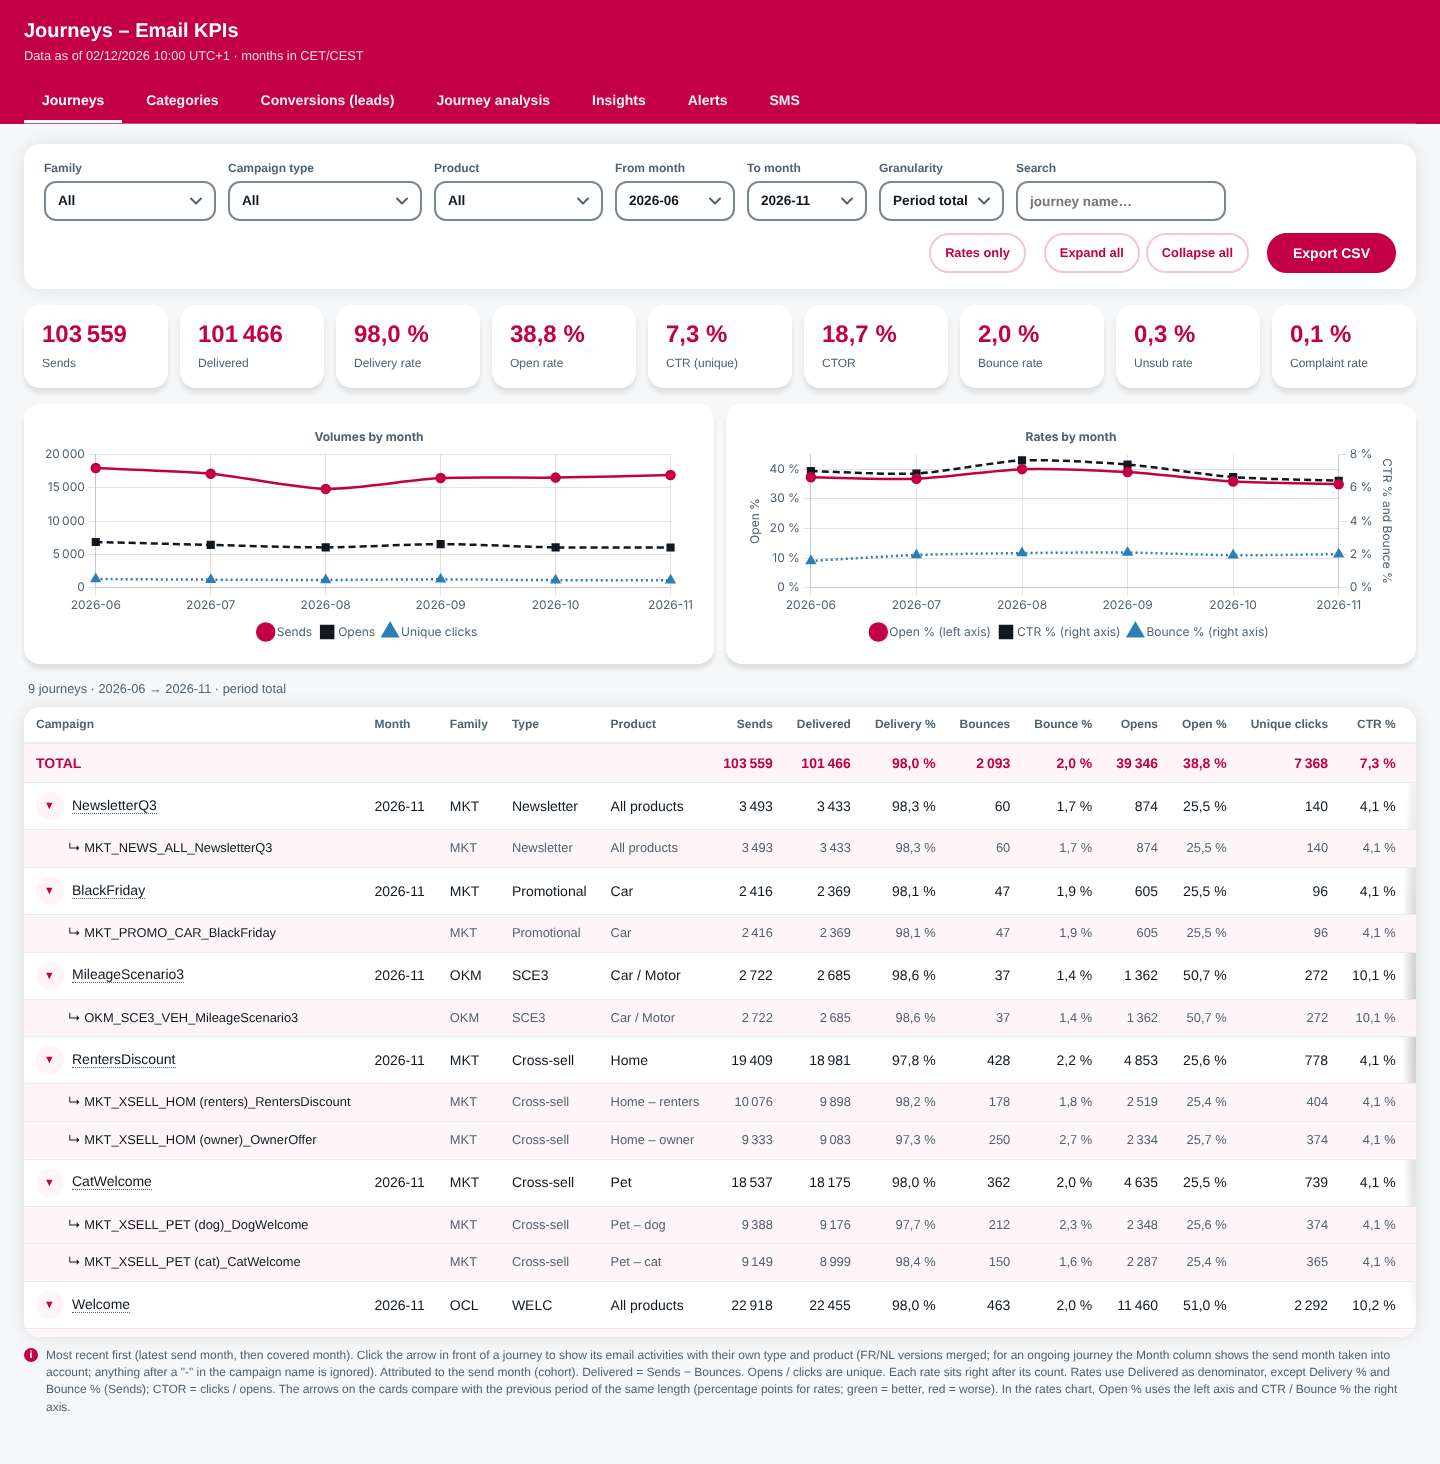
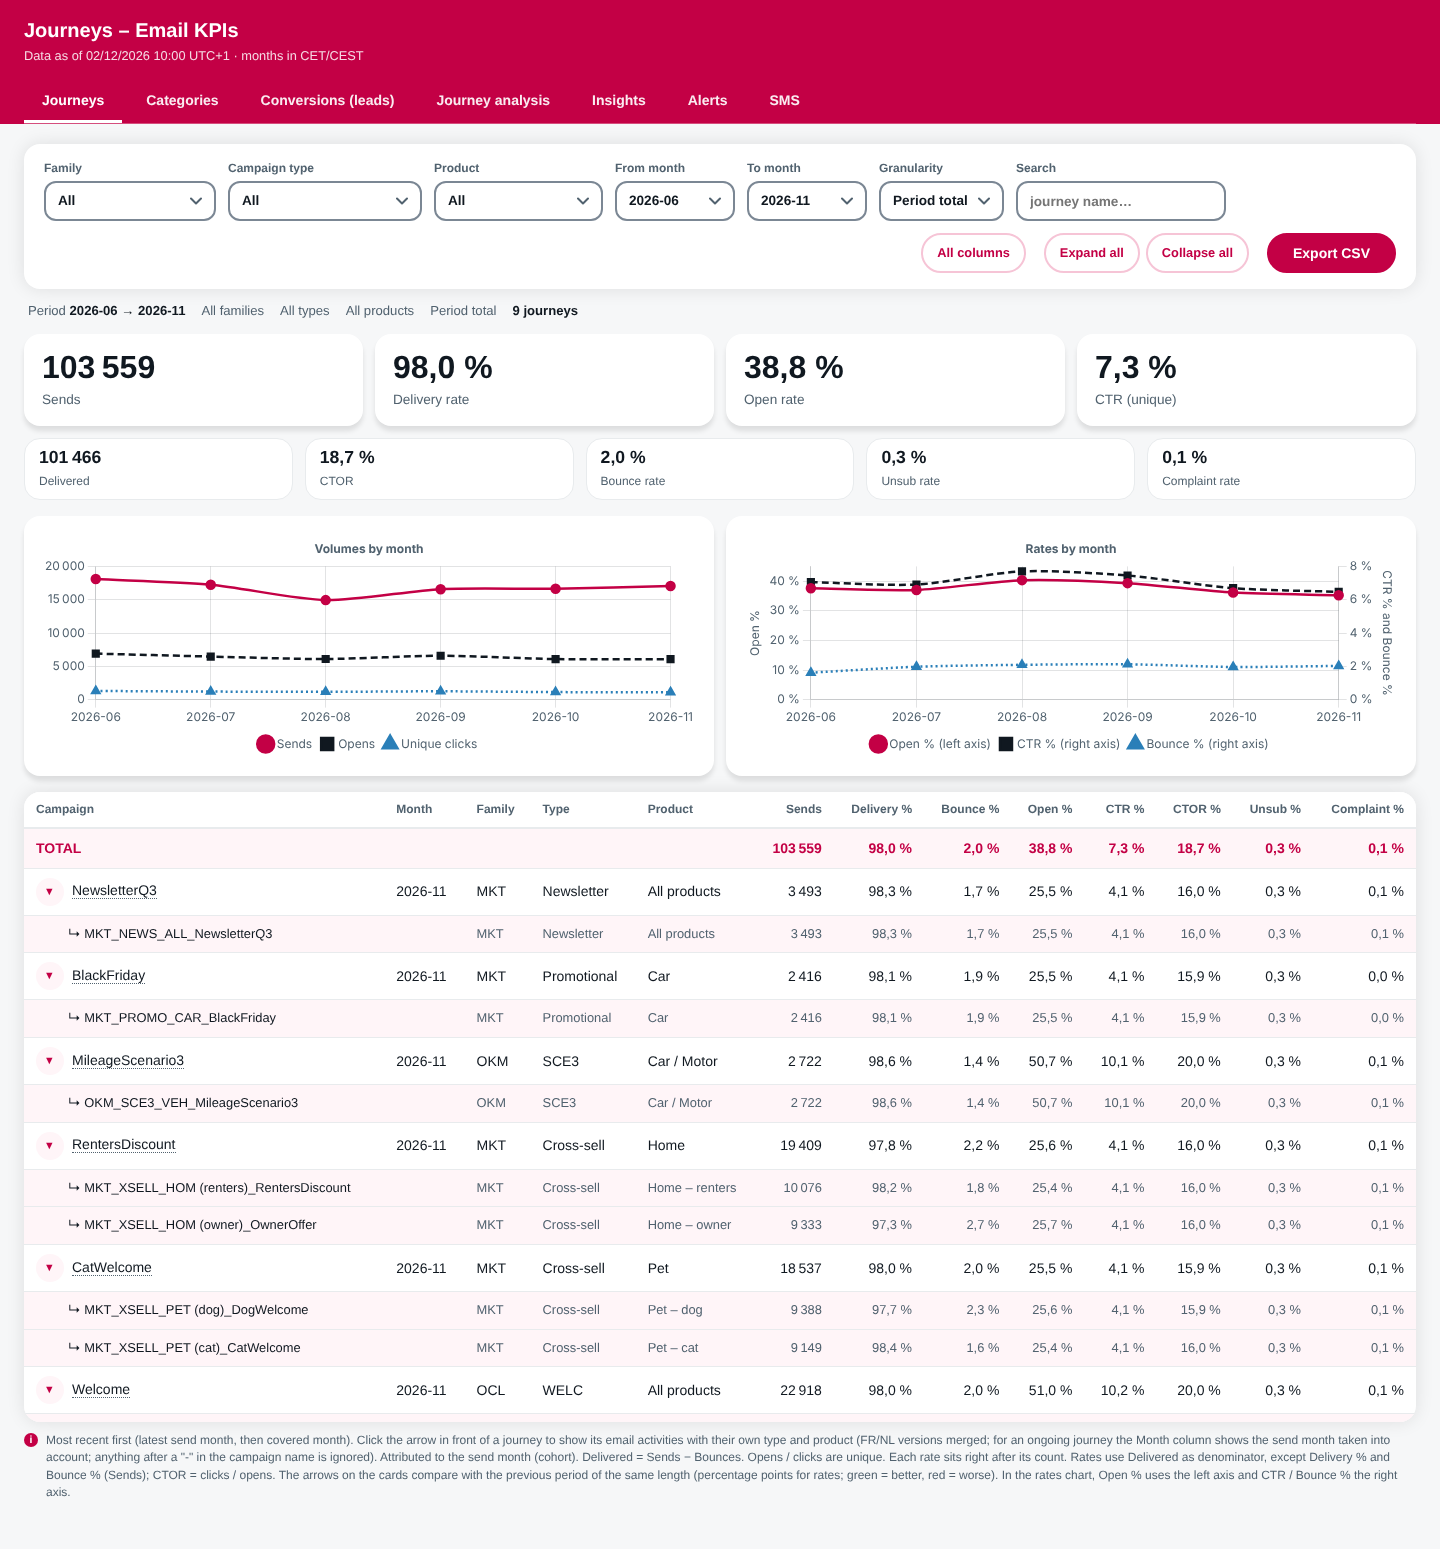
Design review: context line, neutral KPI values, headline KPI cards, 2x2 deliverability grid, rates-only default
Claude-Session: https://claude.ai/code/session_01WtzjzeTDomDiWbenzCQNQG

diff --git a/cloudpage_dashboard.html b/cloudpage_dashboard.html
@@ -184,7 +184,14 @@ button.btn:focus-visible{outline:2px solid var(--focus);outline-offset:2px}
 .cards{display:grid;grid-template-columns:repeat(auto-fit,minmax(125px,1fr));gap:12px;margin-bottom:16px}
 .card{background:var(--card);border:2px solid transparent;border-radius:16px;padding:14px 16px;box-shadow:var(--shadow-tile);transition:transform .15s,border-color .15s}
 .card:hover{transform:scale(1.015);border-color:var(--red)}
-.card b{display:block;font-size:1.5rem;line-height:1.1;font-weight:600;color:var(--tx-red);margin-bottom:4px}
+.card b{display:block;font-size:1.5rem;line-height:1.1;font-weight:600;color:var(--fg);margin-bottom:4px}   /* neutral: red / green are kept for the deltas and alerts */
+.cards.tiered{grid-template-columns:repeat(60,1fr)}
+.cards.tiered .card.pri b{font-size:2rem}
+.cards.tiered .card.pri span{font-size:.85rem}
+.cards.tiered .card.sec{padding:9px 14px;box-shadow:none;border:1px solid var(--line)}
+.cards.tiered .card.sec b{font-size:1.1rem;margin-bottom:2px}
+.cards.tiered .card.sec:hover{border-color:var(--red)}
+@media (max-width:1000px){.cards.tiered{grid-template-columns:repeat(2,1fr)}.cards.tiered .card{grid-column:auto!important}}
 .card span{font-size:.75rem;color:var(--mute)}
 .charts{display:grid;grid-template-columns:repeat(auto-fit,minmax(320px,1fr));gap:12px;margin-bottom:16px}
 .charts .card{height:260px;min-width:0;position:relative;overflow:hidden}.charts .card:hover{transform:none;border-color:transparent}
@@ -225,7 +232,8 @@ tr.child:hover td{background:var(--pink-light)}
 .note::before{content:"i";position:absolute;left:0;top:1px;width:14px;height:14px;border-radius:50%;background:var(--red);color:#fff;font-size:.65rem;font-weight:700;text-align:center;line-height:14px}
 .warn{background:var(--pink-bg);border:2px solid var(--pink-mid);color:var(--red-dark);border-radius:12px;padding:10px 14px;margin-bottom:14px;font-size:.8rem}
 @media (prefers-color-scheme:dark){.warn{color:var(--fg)}}
-.tops{display:grid;grid-template-columns:repeat(auto-fit,minmax(340px,1fr));gap:16px}
+.tops{display:grid;grid-template-columns:repeat(2,minmax(0,1fr));gap:16px}
+@media (max-width:900px){.tops{grid-template-columns:1fr}}
 .top{background:var(--card);border-radius:16px;box-shadow:var(--shadow);padding:16px 20px}
 .top h3{margin:0 0 12px;font-size:.95rem}
 .top ol{list-style:none;margin:0;padding:0}
@@ -234,7 +242,7 @@ tr.child:hover td{background:var(--pink-light)}
 .top .rk{color:var(--mute);font-weight:700}
 .top .nm{font-weight:600;overflow:hidden;text-overflow:ellipsis;white-space:nowrap}
 .top .nm small{display:block;color:var(--mute);font-weight:400;font-size:.72rem}
-.top .vl{font-weight:700;color:var(--tx-red);font-variant-numeric:tabular-nums;text-align:right}
+.top .vl{font-weight:700;color:var(--fg);font-variant-numeric:tabular-nums;text-align:right}
 .top .vl small{display:block;color:var(--mute);font-weight:400;font-size:.72rem}
 .top .bar2{grid-column:2/4;height:6px;border-radius:3px;background:var(--grey-track);overflow:hidden}
 .top .bar2 i{display:block;height:100%;background:var(--red);border-radius:3px}
@@ -250,7 +258,8 @@ td.bad{color:var(--err-text);font-weight:700}
 @media (prefers-color-scheme:dark){.wrap tr.child:hover td:first-child{background:#3a2430}}
 .dl{display:block;font-size:.72rem;font-style:normal;font-weight:600;margin-top:3px;color:var(--mute)}
 .dl.good{color:var(--ok-text)}.dl.bad{color:var(--err-text)}
-.sum{font-size:.8rem;color:var(--mute);margin:0 0 8px 4px}
+.ctx{display:flex;flex-wrap:wrap;gap:4px 16px;font-size:.82rem;color:var(--mute);margin:-4px 4px 14px}
+.ctx b{color:var(--fg);font-weight:600}
 .errbox{background:var(--card);border:2px solid var(--err-text);border-radius:16px;padding:18px 22px;margin-bottom:16px}
 .errbox b{display:block;font-size:1rem;margin-bottom:4px}
 .errbox p{margin:0 0 12px;font-size:.75rem;color:var(--mute);word-break:break-word}
@@ -336,12 +345,12 @@ a.jl:focus-visible{outline:2px solid var(--focus);outline-offset:2px;border-radi
     <button class="btn" id="bCsv">Export CSV</button>
     </div>
   </div>
+  <div id="ctx" class="ctx" role="status" aria-live="polite" hidden></div>
   <div id="warn" class="warn" role="status" hidden></div>
 
   <section id="v-main">
     <div id="cards" class="cards"></div>
     <div id="charts" class="charts"><div class="card"><canvas id="c1"></canvas></div><div class="card"><canvas id="c2"></canvas></div></div>
-    <div class="sum" id="sum" aria-live="polite"></div>
     <div class="wrap"><table id="tbl"></table></div>
     <div class="note" id="note"></div>
   </section>
@@ -417,7 +426,7 @@ const ALERT_MIN_DAYS = CFG.alertMinDays ?? 3;    /* do not alert before this man
 const DARK = () => window.matchMedia && matchMedia('(prefers-color-scheme: dark)').matches;
 const PAL_L = ['#c30045','#101820','#2a7fb8','#4b9b30','#ad0cdf'], PAL_D = ['#ff7da3','#eef0f2','#6cb8ee','#7fd36a','#d28bff'];
 const DASHES = [[],[7,4],[2,3],[10,3,2,3]], PTS = ['circle','rect','triangle','rectRot'];   /* series differ by shape and line style, not only by colour */
-const S = {tab:'journeys', fam:'ALL', type:'', prod:'', from:'', to:'', gran:'total', grp:'journey', view:'cat', q:'', j:'', alert:'ongoing', compact:false, sub:'deliv', win:'3', gl:'prov', seg:'all', gc:'n'};
+const S = {tab:'journeys', fam:'ALL', type:'', prod:'', from:'', to:'', gran:'total', grp:'journey', view:'cat', q:'', j:'', alert:'ongoing', compact:true, sub:'deliv', win:'3', gl:'prov', seg:'all', gc:'n'};
 let DEF = {}, JSET = new Set(), FOCUS = null;
 const SORT = {};   /* sort state per table id: {k,d} */
 const EXP = new Set();   /* expanded journey rows (email activity detail) */
@@ -621,15 +630,21 @@ function renderTable(id, keyCols, cols, rows, total, opts){
   }
 }
 
-function cards(id, items){
-  $(id).innerHTML = items.map(([v,l,d,c,ttl])=>`<div class="card"><b>${v}</b><span>${esc(l)}</span>${d?`<em class="dl ${c||''}" title="${esc(ttl||'')}">${esc(d)}</em>`:''}</div>`).join('');
+/* primary = number of headline cards shown large; the others form a quieter second row */
+function cards(id, items, primary){
+  const el = $(id), tiered = primary>0 && items.length>primary, sec = items.length-primary, secSpan = sec>0 ? Math.floor(60/sec) : 60;
+  el.classList.toggle('tiered', tiered);
+  el.innerHTML = items.map(([v,l,d,c,ttl],i)=>{
+    const cls = tiered ? (i<primary ? 'card pri' : 'card sec') : 'card', span = tiered ? ` style="grid-column:span ${i<primary ? Math.floor(60/primary) : secSpan}"` : '';
+    return `<div class="${cls}"${span}><b>${v}</b><span>${esc(l)}</span>${d?`<em class="dl ${c||''}" title="${esc(ttl||'')}">${esc(d)}</em>`:''}</div>`;
+  }).join('');
 }
 const KPI_CARDS = [
   {l:'Sends',        v:t=>t.Sends,                          kind:'vol'},
-  {l:'Delivered',    v:t=>deliv(t),                         kind:'vol'},
   {l:'Delivery rate',v:t=>t.Sends?deliv(t)/t.Sends:null,    kind:'rate',good:'up'},
   {l:'Open rate',    v:t=>deliv(t)?t.Opens/deliv(t):null,   kind:'rate',good:'up'},
   {l:'CTR (unique)', v:t=>deliv(t)?t.Clicks/deliv(t):null,  kind:'rate',good:'up'},
+  {l:'Delivered',    v:t=>deliv(t),                         kind:'vol'},
   {l:'CTOR',         v:t=>t.Opens?t.Clicks/t.Opens:null,    kind:'rate',good:'up'},
   {l:'Bounce rate',  v:t=>t.Sends?t.Bounces/t.Sends:null,   kind:'rate',good:'down'},
   {l:'Unsub rate',   v:t=>deliv(t)?t.Unsubs/deliv(t):null,  kind:'rate',good:'down'},
@@ -696,7 +711,7 @@ function viewKpi(dim){
   const grouped = group(rows, r => [dimVal(r,dim), monthly ? r.Month : '']);
   const tot = group(rows, r=>['','']) [0] || ZERO();
   const pr = prevRange(), prevRows = pr ? D.kpi.filter(r=>baseOk(r.JourneyName) && r.Month>=pr.from && r.Month<=pr.to) : [];
-  cards('cards', kpiCards(tot, prevRows.length ? group(prevRows, r=>['','']) [0] : null, pr));
+  cards('cards', kpiCards(tot, prevRows.length ? group(prevRows, r=>['','']) [0] : null, pr), 4);
   const isJ = dim==='journey';
   const keyCols = isJ ? journeyCols(false, monthly)
     : [{k:'name',l:DIMLAB[dim],v:a=>dimShow(dim,a.name).toLowerCase(),f:a=>esc(dimShow(dim,a.name))}].concat(monthly?[{k:'month',l:'Month',v:a=>a.month,f:a=>esc(a.month)}]:[]);
@@ -752,9 +767,9 @@ function viewConv(){
   const legacy = !D.conv.some(r=>r.OriginKind!==undefined);
   cards('cards', legacy
     ? [[n(tot.Leads),'Leads generated after send'],[n(tot.Conv),'Converted leads (Signed)'],[pct(tot.Conv,tot.Leads),'Conversion rate'],[tot.Deliv?(tot.Leads/tot.Deliv*1000).toFixed(2).replace('.',','):'–','Leads / 1,000 delivered'],[pct(tot.Open,tot.Leads),'Leads who opened'],[pct(tot.Click,tot.Leads),'Leads who clicked'],[tot.Leads?(tot.Days/tot.Leads).toFixed(1).replace('.',','):'–','Avg. delay (days)']]
-    : [[n(tot.Leads),'Leads (all)'],[n(kinds.M),'Generated after a marketing email'],[n(kinds.T),'Triggered an operational email'],[n(kinds.N),'No email found'],
-       [n(tot.Conv),'Signed'],[pct(tot.Conv,tot.Leads),'Conversion rate'],[tot.Deliv?(tot.Att/tot.Deliv*1000).toFixed(2).replace('.',','):'–','Leads / 1,000 delivered'],
-       [pct(tot.Open,tot.Att),'Leads who opened (email found)'],[pct(tot.Click,tot.Att),'Leads who clicked (email found)'],[tot.Att?(tot.Days/tot.Att).toFixed(1).replace('.',','):'–','Avg. delay email ↔ lead (days)']]);
+    : [[n(tot.Leads),'Leads (all)'],[n(tot.Conv),'Signed'],[pct(tot.Conv,tot.Leads),'Conversion rate'],[tot.Deliv?(tot.Att/tot.Deliv*1000).toFixed(2).replace('.',','):'–','Leads / 1,000 delivered'],
+       [n(kinds.M),'Generated after a marketing email'],[n(kinds.T),'Triggered an operational email'],[n(kinds.N),'No email found'],
+       [pct(tot.Open,tot.Att),'Leads who opened (email found)'],[pct(tot.Click,tot.Att),'Leads who clicked (email found)'],[tot.Att?(tot.Days/tot.Att).toFixed(1).replace('.',','):'–','Avg. delay email ↔ lead (days)']], legacy ? 0 : 4);
   const isJ = dim==='journey';
   const keyCols = isJ ? journeyCols(false, monthly)
     : [{k:'name',l:DIMLAB[dim],v:a=>dimShow(dim,a.name).toLowerCase(),f:a=>esc(dimShow(dim,a.name))}].concat(monthly?[{k:'month',l:'Send month',v:a=>a.month,f:a=>esc(a.month)}]:[]);
@@ -878,7 +893,7 @@ async function viewAna(){
   const kRows = D.kpi.filter(r=>r.JourneyName===S.j && inMonths(r.Month));
   const eRows = D.email.filter(r=>r.JourneyName===S.j && inMonths(r.Month));
   const tot = group(kRows, r=>['','']) [0] || group(eRows, r=>['','']) [0] || ZERO();
-  cards('aCards', kpiCards(tot));
+  cards('aCards', kpiCards(tot), 4);
   drawCharts([byMonthCharts(kRows)[0]], ['c3']);
   const keyL = [{k:'name',l:'Language',v:a=>a.name,f:a=>esc(a.name)}];
   const byLang = group(eRows, r=>[parseEmail(r.EmailName).lang||'n/a','']);
@@ -924,12 +939,12 @@ function topList(title, items, fmtVal){
 function viewInsDeliv(){
   const dm = new Map();
   for (const r of D.domain){ if(!inMonths(r.Month)) continue; let a=dm.get(r.Domain); if(!a){a={name:r.Domain,Sends:0,Bounces:0,Complaints:0};dm.set(r.Domain,a);} a.Sends+=r.Sends;a.Bounces+=r.Bounces;a.Complaints+=r.Complaints; }
-  const doms = [...dm.values()];
+  const doms = [...dm.values()], domSends = doms.reduce((s,a)=>s+a.Sends,0);
   const top = (arr,key,extra) => arr.filter(a=>a[key]>0).sort((a,b)=>b[key]-a[key]).slice(0,5).map(a=>({name:a.name,val:a[key],extra:extra?extra(a):''}));
   const jr = group(D.kpi.filter(r=>inScope(r.JourneyName,r.Month)), r=>[r.JourneyName,'']);
   const topJ = jr.filter(a=>a.Bounces>0).sort((a,b)=>b.Bounces-a.Bounces).slice(0,5).map(a=>({name:parse(a.name).campaign,title:a.name,sub:parse(a.name).fam+' · '+parse(a.name).type+' · '+parse(a.name).product+(parse(a.name).covered?' · '+parse(a.name).covered:''),val:a.Bounces,extra:pct(a.Bounces,a.Sends)+' of sends'}));
   $('tops').innerHTML =
-    topList('Top 5 domains – emails sent', top(doms,'Sends'), n) +
+    topList('Top 5 domains – emails sent', top(doms,'Sends',a=>pct(a.Sends,domSends)+' of all sends'), n) +
     topList('Top 5 domains – bounces', top(doms,'Bounces',a=>pct(a.Bounces,a.Sends)+' of sends'), n) +
     topList('Top 5 domains – complaints', top(doms,'Complaints',a=>pct(a.Complaints,a.Sends)+' of sends'), n) +
     topList('Top 5 journeys – bounces', topJ, n);
@@ -1139,14 +1154,25 @@ function viewSms(){
 
 /* ---------- affichage ---------- */
 const NOUN = {journey:'journeys',cat:'categories',type:'campaign types',product:'products'};
-function setSummary(count, dim){
-  const parts = [];
-  if (S.fam!=='ALL') parts.push('Family: '+(S.fam==='MKT'?'MKT_':'Oxx_'));
-  if (S.type) parts.push('Type: '+S.type);
-  if (S.prod) parts.push('Product: '+S.prod);
-  if (S.q) parts.push('Search: "'+S.q+'"');
-  parts.push(S.gran==='month' ? 'by month' : 'period total');
-  $('sum').textContent = n(count)+' '+(S.gran==='month' ? 'rows' : (NOUN[dim]||'rows'))+' · '+(S.from||'…')+' → '+(S.to||'…')+' · '+parts.join(' · ');
+let CNT = null;
+function setSummary(count, dim){ CNT = n(count)+' '+(S.gran==='month' ? 'rows' : (NOUN[dim]||'rows')); }
+/* what the figures on screen are about: period and applied filters, next to the cards */
+function updateCtx(){
+  const el = $('ctx'), tab = S.tab;
+  if (tab==='ins' && S.sub!=='deliv'){ el.hidden = true; return; }
+  const period = 'Period <b>'+esc(S.from||'…')+' → '+esc(S.to||'…')+'</b>', parts = [];
+  if (tab==='ana'){ if (!S.j){ el.hidden = true; return; } parts.push('Journey <b>'+esc(parse(S.j).campaign)+'</b>', period); }
+  else if (tab==='alerts'){ el.hidden = false; el.innerHTML = '<span>Scope <b>'+(S.alert==='all'?'All journeys':'Ongoing journeys only')+'</b></span>'; return; }
+  else if (tab==='sms'){ parts.push(period); if (S.q) parts.push('Search <b>"'+esc(S.q)+'"</b>'); }
+  else {
+    parts.push(period, S.fam==='ALL' ? 'All families' : 'Family <b>'+(S.fam==='MKT'?'Marketing (MKT_)':'Operational (Oxx_)')+'</b>',
+      S.type ? 'Type <b>'+esc(lab('type',S.type))+'</b>' : 'All types', S.prod ? 'Product <b>'+esc(lab('product',S.prod))+'</b>' : 'All products');
+    if (tab==='journeys' || tab==='cats' || tab==='conv') parts.push(S.gran==='month' ? 'By month' : 'Period total');
+    if (tab==='conv' && S.grp!=='journey') parts.push('Grouped by <b>'+esc(DIMLAB[S.grp]||S.grp)+'</b>');
+    if (S.q) parts.push('Search <b>"'+esc(S.q)+'"</b>');
+    if (CNT && (tab==='journeys' || tab==='cats' || tab==='conv')) parts.push('<b>'+esc(CNT)+'</b>');
+  }
+  el.hidden = false; el.innerHTML = parts.map(p=>'<span>'+p+'</span>').join('');
 }
 const FILTERS = ['fam','type','prod','q','gran','from','to'];
 const HSEL = {fam:'fFam',type:'fType',prod:'fProd',from:'fFrom',to:'fTo',gran:'fGran',grp:'fGrp',view:'fView',j:'fJ',alert:'fAlert'};
@@ -1154,7 +1180,7 @@ function saveHash(){
   try{
     const p = new URLSearchParams();
     for (const k of ['tab','fam','type','prod','from','to','gran','grp','view','q','j','alert','sub','win','gl','seg','gc']) if (S[k] && S[k]!==DEF[k]) p.set(k,S[k]);
-    if (S.compact) p.set('compact','1');
+    if (!S.compact) p.set('compact','0');   /* rates only is the default view */
     const h = p.toString(); history.replaceState(null,'',location.pathname+location.search+(h?'#'+h:''));
   }catch(e){}
 }
@@ -1164,7 +1190,7 @@ function loadHash(){
   for (const k in HSEL){ const v=p.get(k), el=$(HSEL[k]); if (v!==null && [...el.options].some(o=>o.value===v)){ S[k]=v; el.value=v; } }
   if (p.get('q')){ S.q=p.get('q'); $('fQ').value=S.q; }
   for (const [k,vals] of [['sub',['deliv','aud','geo']],['win',['3','6','12']],['gl',['prov','postal']],['seg',['all','yes','no']],['gc',['n','pc']]]) if (vals.includes(p.get(k))) S[k]=p.get(k);
-  S.compact = p.get('compact')==='1';
+  S.compact = p.get('compact')!=='0';
 }
 function selectTab(t, focus){
   S.tab = t; SORT.tbl = null;
@@ -1172,7 +1198,7 @@ function selectTab(t, focus){
   render();
 }
 function render(){
-  const cfg = TABS[S.tab];
+  CNT = null; const cfg = TABS[S.tab];
   let ctl = (S.tab==='ins' && S.sub!=='deliv') ? [] : cfg.ctl;
   if (S.tab==='ana' && !S.j) ctl = ctl.filter(id=>['lJ','lFrom','lTo'].includes(id));   /* nothing to act on until a journey is chosen */   /* the filter bar does not apply to the subscriber / geography views */
   $('insNav').hidden = S.tab!=='ins';   /* the Insights views (Deliverability / Subscriber base / Geography) stay at the very top */
@@ -1186,7 +1212,7 @@ function render(){
   $('v-'+cfg.view).setAttribute('aria-labelledby','tab-'+S.tab);
   if (S.tab==='journeys') viewKpi('journey'); else if (S.tab==='cats') viewKpi(S.view); else if (S.tab==='conv') viewConv();
   else if (S.tab==='ana') viewAna(); else if (S.tab==='ins') viewIns(); else if (S.tab==='alerts') viewAlerts(); else viewSms();
-  updateBadge(); saveHash();
+  updateCtx(); updateBadge(); saveHash();
 }
 
 async function api(part, extra){
